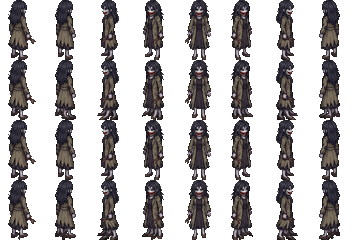
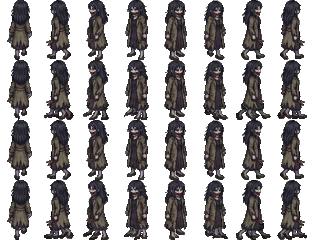
裂口女換完整版設計圖（方向逐格校正）、追擊時舉剪刀衝刺；咪醬加入蹲姿圖

diff --git a/game.js b/game.js
@@ -1074,6 +1074,7 @@ function drawObj(o, alpha) {
   }
   ctx.globalAlpha = 1;
 }
+const ghImg = () => GH.state === 'chase' && IMG.kuchisake_chase || IMG.kuchisake;   // 追擊時換成舉剪刀衝刺
 function drawSprite(img, x, y, dir, opt = {}) {
   if (!img) return;
   const rows = img.rows || (img.height > img.width / 8 * 1.8 ? 4 : 1);   // 咪醬 9 列（站/走4/跑4）、鬼 4 列
@@ -1120,9 +1121,9 @@ function render() {
   }
   for (const it of ITEMS) if (!it.taken) list.push({ d: it.x + it.y - .3, f: () => { const [sx, sy] = iso(it.x, it.y); const on = Math.sin(G.t * 4 + it.x) > .3; ctx.fillStyle = on ? 'rgba(255,240,200,.9)' : 'rgba(255,240,200,.35)'; ctx.fillRect(sx - 1, sy - (it.id === 'phone' ? 13 : 3), 2, 2); if (on) { ctx.fillRect(sx - 3, sy - (it.id === 'phone' ? 12 : 2), 6, 0.6); } } });
   for (const p of G.projs) list.push({ d: p.x + p.y, f: () => { const [sx, sy] = iso(p.x, p.y); ctx.fillStyle = p.kind === 'can' ? '#9aa' : '#d99a2b'; ctx.fillRect(sx - 2, sy - 10 - Math.sin((.5 - p.life) / .5 * Math.PI) * 12, 4, 3); } });
-  if (!P.hidden) list.push({ d: pd, f: () => drawSprite(IMG.mi, P.x, P.y, P.dir, { frame: P.moving ? (P.run ? 4 : 0) + P.frame : 0, crouch: P.crouch }) });
+  if (!P.hidden) list.push({ d: pd, f: () => P.crouch && IMG.mi_crouch ? drawSprite(IMG.mi_crouch, P.x, P.y, P.dir, { bob: P.moving && P.frame % 2 ? -1 : 0 }) : drawSprite(IMG.mi, P.x, P.y, P.dir, { frame: P.moving ? (P.run ? 4 : 0) + P.frame : 0, crouch: P.crouch }) });
   if (G.shadow) { const s = G.shadow; list.push({ d: s.x + s.y, f: () => drawSprite(IMG.mi, s.x, s.y, s.dir, { tint: 'rgba(0,0,0,1)', alpha: .85 * (s.a ?? 1), noShadow: true }) }); }
-  if (GH.active) list.push({ d: GH.x + GH.y, f: () => drawSprite(IMG.kuchisake, GH.x, GH.y, GH.dir, { frame: GH.moving ? GH.frame : 0, bob: GH.moving && GH.frame % 2 ? -1 : 0, jit: GH.state === 'chase' ? (Math.random() - .5) * 2 : 0 }) });
+  if (GH.active) list.push({ d: GH.x + GH.y, f: () => drawSprite(ghImg(), GH.x, GH.y, GH.dir, { frame: GH.moving ? GH.frame : 0, bob: GH.moving && GH.frame % 2 ? -1 : 0, jit: GH.state === 'chase' ? (Math.random() - .5) * 2 : 0 }) });
   list.sort((a, b) => a.d - b.d);
   for (const l of list) l.f(l.tall && l.d > pd + .2 && near(l.sx, l.sy, l.tall) && !P.hidden ? .3 : 1);
   // 光照
@@ -1159,7 +1160,7 @@ function render() {
   // 鬼的剪影（在黑暗中隱約可見）與狀態符號
   if (GH.active && G.mode === 'play') {
     const d = dist(GH.x, GH.y, P.x, P.y);
-    if (d < 8) drawSprite(IMG.kuchisake, GH.x, GH.y, GH.dir, { frame: GH.moving ? GH.frame : 0, alpha: .14 * (1 - d / 8), noShadow: true });
+    if (d < 8) drawSprite(ghImg(), GH.x, GH.y, GH.dir, { frame: GH.moving ? GH.frame : 0, alpha: .14 * (1 - d / 8), noShadow: true });
     const [gx, gy] = iso(GH.x, GH.y);
     const mark = GH.state === 'chase' ? '!' : (GH.sus > .25 || GH.state === 'investigate' || GH.state === 'search') ? '?' : GH.state === 'confused' ? '…' : '';
     if (mark && d < 14) { ctx.font = 'bold 14px sans-serif'; ctx.textAlign = 'center'; ctx.fillStyle = mark === '!' ? '#ff3b3b' : '#ffd35a'; ctx.fillText(mark, gx, gy - 66); }
@@ -1218,9 +1219,10 @@ try { if (localStorage.getItem(SAVE_KEY)) $('#bCont').classList.remove('hide'); 
 const BLOG = 'https://cashkingw.blogspot.com/2026/10/444.html';
 if (!Q.get('embed')) $('#foot').innerHTML = `戴上耳機遊玩效果最佳　｜　<a href="${Q.get('blog') || BLOG}" target="_top" style="pointer-events:auto">Cash城部落格</a>`;
 
-loadImages(['mi', 'kuchisake', 'ninomiya', 'floors', 'floors2', 'walls', 't_tree', 't_dead1', 't_dead2', 't_dead3', 't_bush1', 't_bush2', 't_bush3', 't_cypress', 't_lamp', 't_rack', 't_bike', 't_bench1', 't_bench2', 't_trash', 't_fount', 't_board']).then(() => {
+loadImages(['mi', 'mi_crouch', 'kuchisake', 'kuchisake_chase', 'ninomiya', 'floors', 'floors2', 'walls', 't_tree', 't_dead1', 't_dead2', 't_dead3', 't_bush1', 't_bush2', 't_bush3', 't_cypress', 't_lamp', 't_rack', 't_bike', 't_bench1', 't_bench2', 't_trash', 't_fount', 't_board']).then(() => {
   buildFloor();
   if (IMG.mi) IMG.mi.rows = 9;
+  if (IMG.mi_crouch) IMG.mi_crouch.rows = 1;
   if (TEST && TEST !== 'shot') { setInterval(() => { update(1 / 30); }, 8); setInterval(render, 200); runTest(TEST); }
   else { requestAnimationFrame(loop); if (TEST) runTest(TEST); }
 });
@@ -1230,7 +1232,7 @@ async function runTest(kind) {
   const tp = (x, y) => { P.x = x; P.y = y; };
   try {
     resetWorld(); G.mode = 'play'; startPlay();
-    if (kind === 'shot') { tp(Number(Q.get('x') || 27.5), Number(Q.get('y') || 30)); P.dir = 0; G.inv.flashlight = true; P.light = true; if (Q.get('ghost')) { spawnGhost(P.x - 2, P.y - 2); GH.state = 'pause'; GH.timer = 99; GH.dir = 4; } if (Q.get('hold')) { G.inv.weapon = { id: 'broom', name: '掃把', dur: 2 }; G.inv.candy = 2; catchPlayer(false); } document.title = 'SHOT'; return; }
+    if (kind === 'shot') { tp(Number(Q.get('x') || 27.5), Number(Q.get('y') || 30)); P.dir = 0; G.inv.flashlight = true; P.light = true; if (Q.get('ghost')) { const ch = Q.get('ghost') === 'chase'; spawnGhost(P.x - (ch ? 6 : 2), P.y - (ch ? 6 : 2)); GH.state = ch ? 'chase' : 'pause'; GH.timer = 99; GH.dir = 4; } if (Q.get('crouch')) P.crouch = true; if (Q.get('hold')) { G.inv.weapon = { id: 'broom', name: '掃把', dur: 2 }; G.inv.candy = 2; catchPlayer(false); } document.title = 'SHOT'; return; }
     if (kind === 'chase') {
       G.flags.log = true; G.inv.flashlight = true; P.light = true; G.inv.candy = 1; G.inv.weapon = { id: 'broom', name: '掃把', dur: 2 };
       spawnGhost(9.5, 20.5); tp(9.5, 24.5); P.dir = 0; GH.state = 'pauseLook'; GH.timer = 9; GH.look = -9; GH.dir = dirFromWorld(P.x - GH.x, P.y - GH.y);
